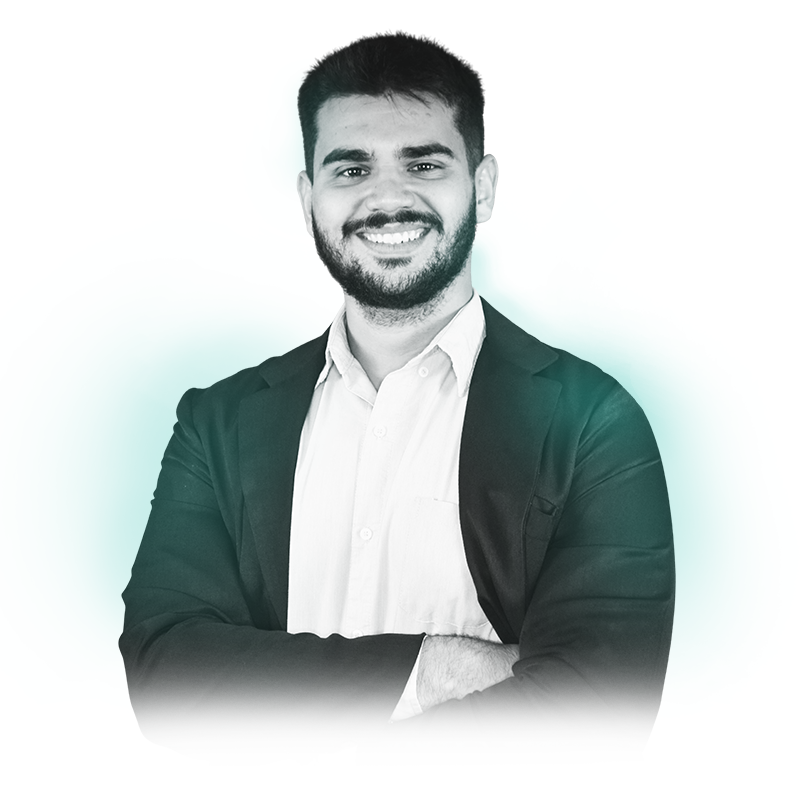
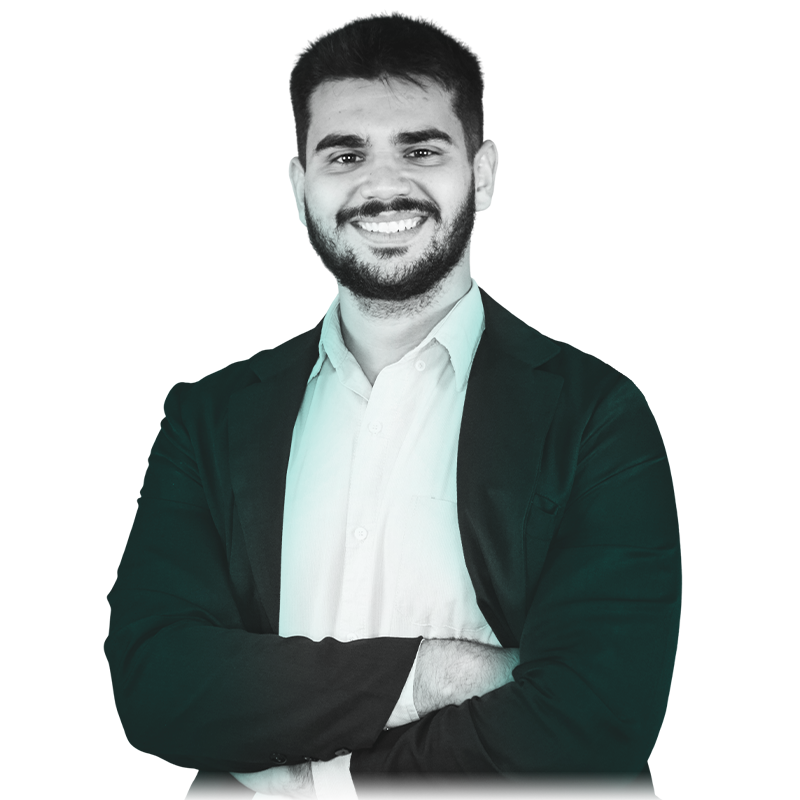
ajustes finais eu acho

diff --git a/src/styles/screens/home.module.css b/src/styles/screens/home.module.css
@@ -1,6 +1,6 @@
 .container {
   width: 100%;
-  overflow-x: hidden;
+
   padding: 0 2rem;
 }
 
@@ -38,14 +38,17 @@
 }
 
 .containerProfile {
+  overflow-x: hidden;
   display: flex;
   align-items: center;
   justify-content: center;
+  overflow: hidden;
 }
 
 .elipse {
+  left: 40%;
   top: 20%;
-  position: absolute;
+  position: fixed;
   overflow: hidden;
   z-index: -1;
   background-color: var(--GREEN_500);
@@ -54,7 +57,6 @@
   border-radius: 50%;
   filter: blur(100px);
   animation: pulse 6s ease-in-out infinite;
-  /* transform-origin: 10% 0%; */
 }
 
 .imageDev {
@@ -95,7 +97,7 @@
     transform: scale(1);
   }
   50% {
-    transform: scale(1.7);
+    transform: scale(1.4);
   }
 }
 
@@ -111,11 +113,15 @@
   }
 
   .elipse {
+    left: 2%;
     top: 50%;
+    width: 400px;
+    height: 400px;
   }
   .imageDev {
     object-fit: contain;
     width: 120%;
+
     /* height: 800px; */
   }
 

diff --git a/src/app/page.tsx b/src/app/page.tsx
@@ -1,10 +1,8 @@
-import { Header } from "@/components/header/header";
 import { AboutScreens } from "@/screens/About";
 import { Experience } from "@/screens/Experience";
 import { Footer } from "@/screens/Footer";
 import { HomeScreens } from "@/screens/Home";
 import { Portifolio } from "@/screens/Portifolio";
-import Image from "next/image";
 
 export default function Home() {
   return (
@@ -16,6 +14,7 @@ export default function Home() {
         overflowX: "hidden",
       }}
     >
+      {/* <div className={styled.elipse}></div> */}
       {/* <Header /> */}
 
       <HomeScreens />

diff --git a/src/styles/elipseHome/elipseHome.module.css b/src/styles/elipseHome/elipseHome.module.css
@@ -1,0 +1,28 @@
+.elipse {
+  position: absolute;
+  top: 20%;
+  left: 50%;
+  transform: translateX(-50%);
+  background-color: var(--GREEN_500);
+  width: 500px;
+  height: 500px;
+  border-radius: 50%;
+  filter: blur(100px);
+  animation: pulse 6s ease-in-out infinite;
+}
+
+@keyframes pulse {
+  0%,
+  100% {
+    transform: translateX(-50%) scale(1);
+  }
+  50% {
+    transform: translateX(-50%) scale(1.3);
+  }
+}
+
+@media (max-width: 1025px) {
+  .elipse {
+    animation: none;
+  }
+}

diff --git a/src/components/elipseHome/elipseHome.tsx b/src/components/elipseHome/elipseHome.tsx
@@ -1,0 +1,5 @@
+import styled from "../../styles/elipseHome/elipseHome.module.css";
+
+export function ElipseHome() {
+  return <div className={styled.elipse}></div>;
+}

diff --git a/src/styles/screens/experience.module.css b/src/styles/screens/experience.module.css
@@ -58,6 +58,8 @@
 }
 
 .containerDescription {
+  width: 100%;
+  overflow: hidden;
   display: flex;
   flex-direction: column;
   gap: 2rem;
